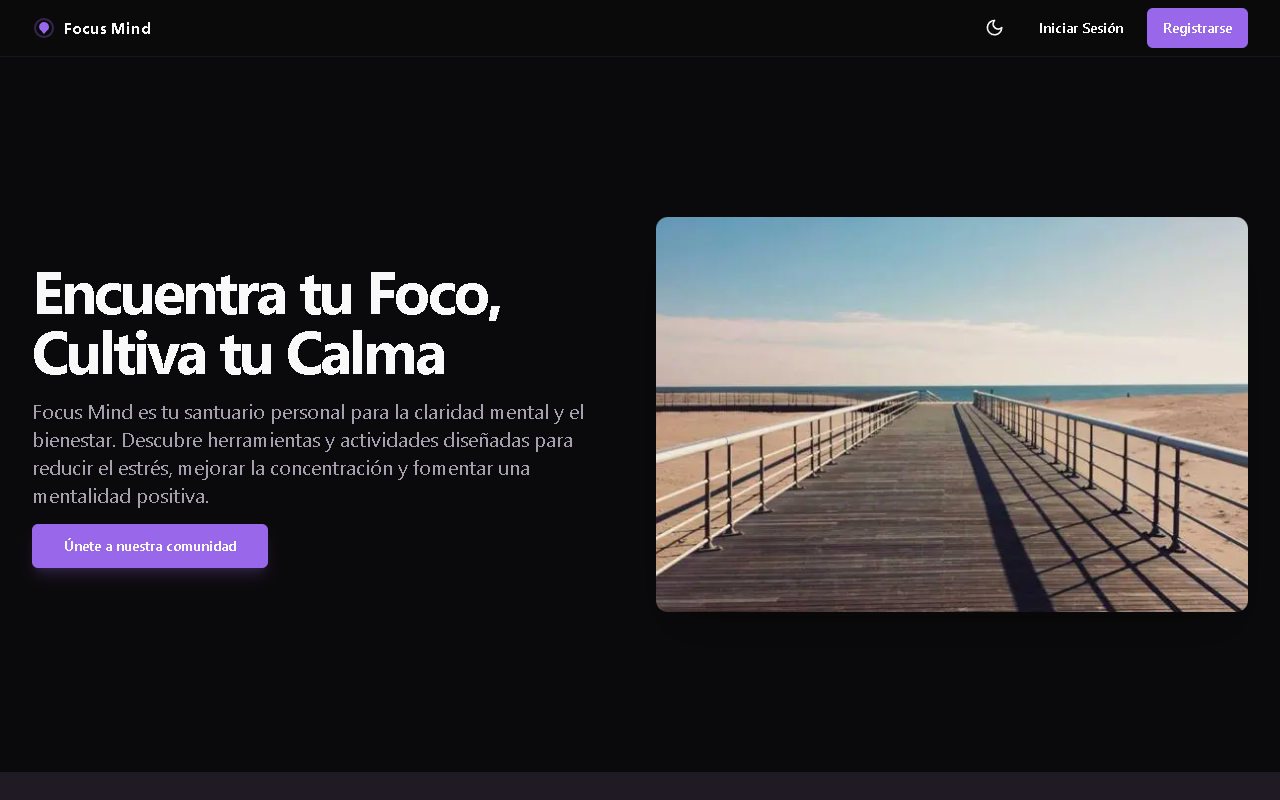
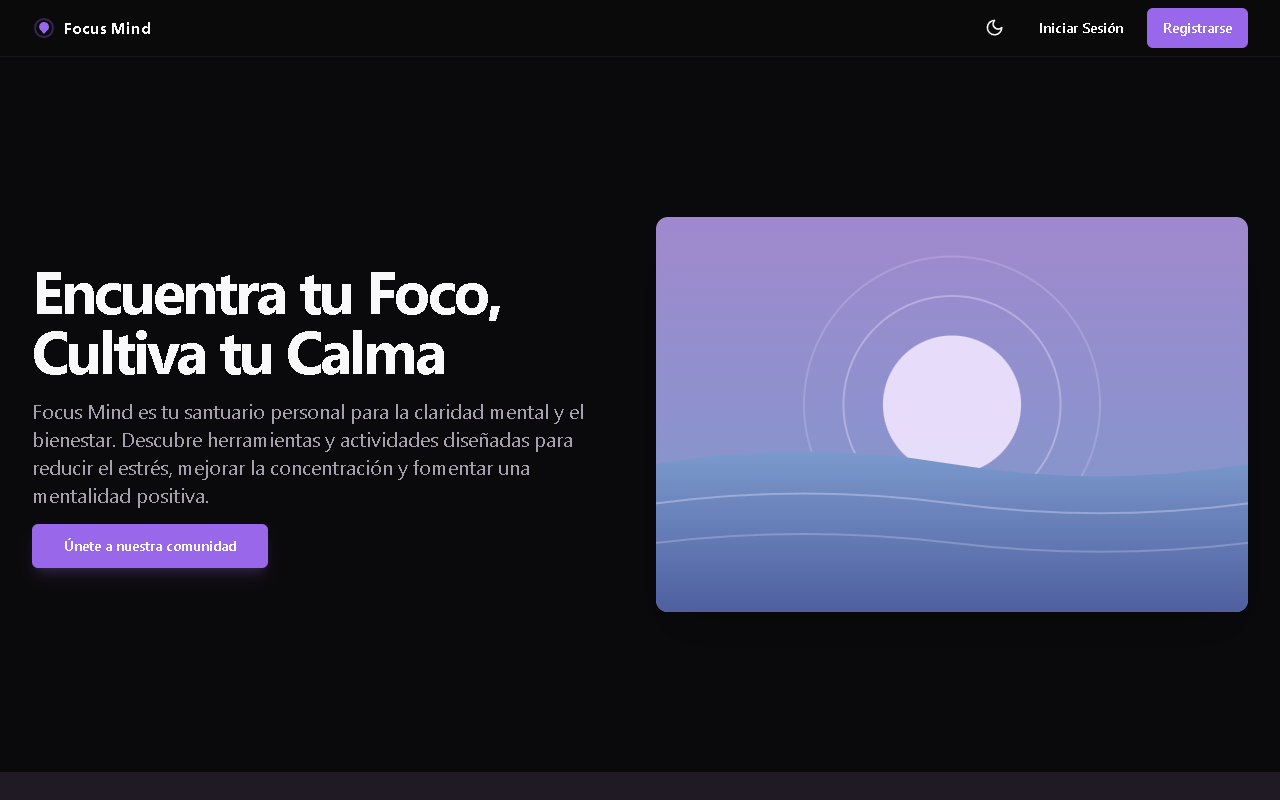
Landing: elimina testimonios ficticios y reemplaza la imagen externa del hero por un SVG local
- Hero con public/hero.svg (sin dependencia de picsum.photos en la landing)
- README: se quita la limitacion sobre testimonios
- Capturas de docs/screenshots regeneradas

Changed region(s): [[0.5, 0.25, 1.0, 0.7812]]

diff --git a/src/app/page.tsx b/src/app/page.tsx
@@ -3,7 +3,7 @@ import { Button } from '@/components/ui/button';
 import { Logo } from '@/components/logo';
 import { ThemeToggle } from '@/components/theme-toggle';
 import { Card, CardContent, CardHeader, CardTitle } from '@/components/ui/card';
-import { Headphones, Gamepad2, BookHeart, Quote } from 'lucide-react';
+import { Headphones, Gamepad2, BookHeart } from 'lucide-react';
 import Image from 'next/image';
 
 export default function Home() {
@@ -46,11 +46,10 @@ export default function Home() {
                 </div>
                  <div className="flex justify-center order-first md:order-last">
                     <Image 
-                        src="https://picsum.photos/600/400"
+                        src="/hero.svg"
                         width={600}
                         height={400}
-                        alt="Persona meditando en un ambiente tranquilo"
-                        data-ai-hint="calm lake"
+                        alt="Ilustración abstracta de calma: sol sobre el agua"
                         className="rounded-xl shadow-2xl w-full max-w-md md:max-w-full"
                         priority
                     />
@@ -117,64 +116,6 @@ export default function Home() {
                  <Button asChild variant="outline">
                     <Link href="/activities">Explora todas las actividades</Link>
                  </Button>
-            </div>
-          </div>
-        </section>
-
-         <section className="py-12 md:py-24 lg:py-32">
-          <div className="container">
-             <div className="text-center mb-12">
-                <h2 className="text-3xl font-bold tracking-tighter sm:text-4xl font-headline">Lo que nuestra comunidad dice</h2>
-                 <p className="mx-auto max-w-[700px] text-muted-foreground md:text-xl mt-4">
-                    Historias de calma y claridad de personas como tú.
-                </p>
-            </div>
-             <div className="grid gap-8 md:grid-cols-2 lg:grid-cols-3">
-                 <Card className="flex flex-col hover:shadow-lg transition-shadow">
-                    <CardContent className="p-6 flex-grow">
-                        <Quote className="w-8 h-8 text-primary mb-4" />
-                        <p className="text-muted-foreground mb-4">&ldquo;Focus Mind se ha convertido en mi pequeño oasis digital. Los ejercicios de respiración me ayudan a centrarme antes de empezar el día.&rdquo;</p>
-                    </CardContent>
-                    <CardHeader className="pt-0">
-                         <div className="flex items-center gap-3">
-                            <Image src="https://picsum.photos/100/100" width={40} height={40} className="rounded-full" alt="Foto de Ana" data-ai-hint="woman portrait" />
-                             <div>
-                                <CardTitle className="text-base">Ana G.</CardTitle>
-                                <p className="text-sm text-muted-foreground">Diseñadora Gráfica</p>
-                            </div>
-                        </div>
-                    </CardHeader>
-                </Card>
-                <Card className="flex flex-col hover:shadow-lg transition-shadow">
-                    <CardContent className="p-6 flex-grow">
-                        <Quote className="w-8 h-8 text-primary mb-4" />
-                        <p className="text-muted-foreground mb-4">&ldquo;Me encanta el generador de cuentos. Es una forma creativa y relajante de desconectar por la noche. Una herramienta maravillosa y sin costo.&rdquo;</p>
-                    </CardContent>
-                     <CardHeader className="pt-0">
-                        <div className="flex items-center gap-3">
-                            <Image src="https://picsum.photos/101/101" width={40} height={40} className="rounded-full" alt="Foto de Carlos" data-ai-hint="man portrait"/>
-                             <div>
-                                <CardTitle className="text-base">Carlos M.</CardTitle>
-                                <p className="text-sm text-muted-foreground">Estudiante</p>
-                            </div>
-                        </div>
-                    </CardHeader>
-                </Card>
-                 <Card className="flex flex-col hover:shadow-lg transition-shadow">
-                    <CardContent className="p-6 flex-grow">
-                        <Quote className="w-8 h-8 text-primary mb-4" />
-                        <p className="text-muted-foreground mb-4">&ldquo;El rastreador de hábitos es simple pero muy efectivo. Me ha ayudado a ser más consistente con mis rutinas de bienestar. ¡Gracias por crear esto!&rdquo;</p>
-                    </CardContent>
-                     <CardHeader className="pt-0">
-                        <div className="flex items-center gap-3">
-                            <Image src="https://picsum.photos/102/102" width={40} height={40} className="rounded-full" alt="Foto de Sofía" data-ai-hint="woman smiling"/>
-                             <div>
-                                <CardTitle className="text-base">Sofía L.</CardTitle>
-                                <p className="text-sm text-muted-foreground">Profesora</p>
-                            </div>
-                        </div>
-                    </CardHeader>
-                </Card>
             </div>
           </div>
         </section>

diff --git a/README.md b/README.md
@@ -113,5 +113,4 @@ Hay 12 pruebas unitarias con Vitest en `src/ai/flows/*.test.ts`, que cubren los 
 - El "Check-in diario" del dashboard solo muestra un aviso: no guarda las respuestas.
 - `src/ai/flows/focus-list-flow.ts` es una estructura base sin lógica y la interfaz no lo usa.
 - La gestión de contenido es de solo lectura (el listado está definido en código).
-- Los testimonios de la landing son texto de ejemplo, no opiniones de usuarios reales.
 - Las actividades de IA requieren `GEMINI_API_KEY` y consumen cuota del servicio de Google.
